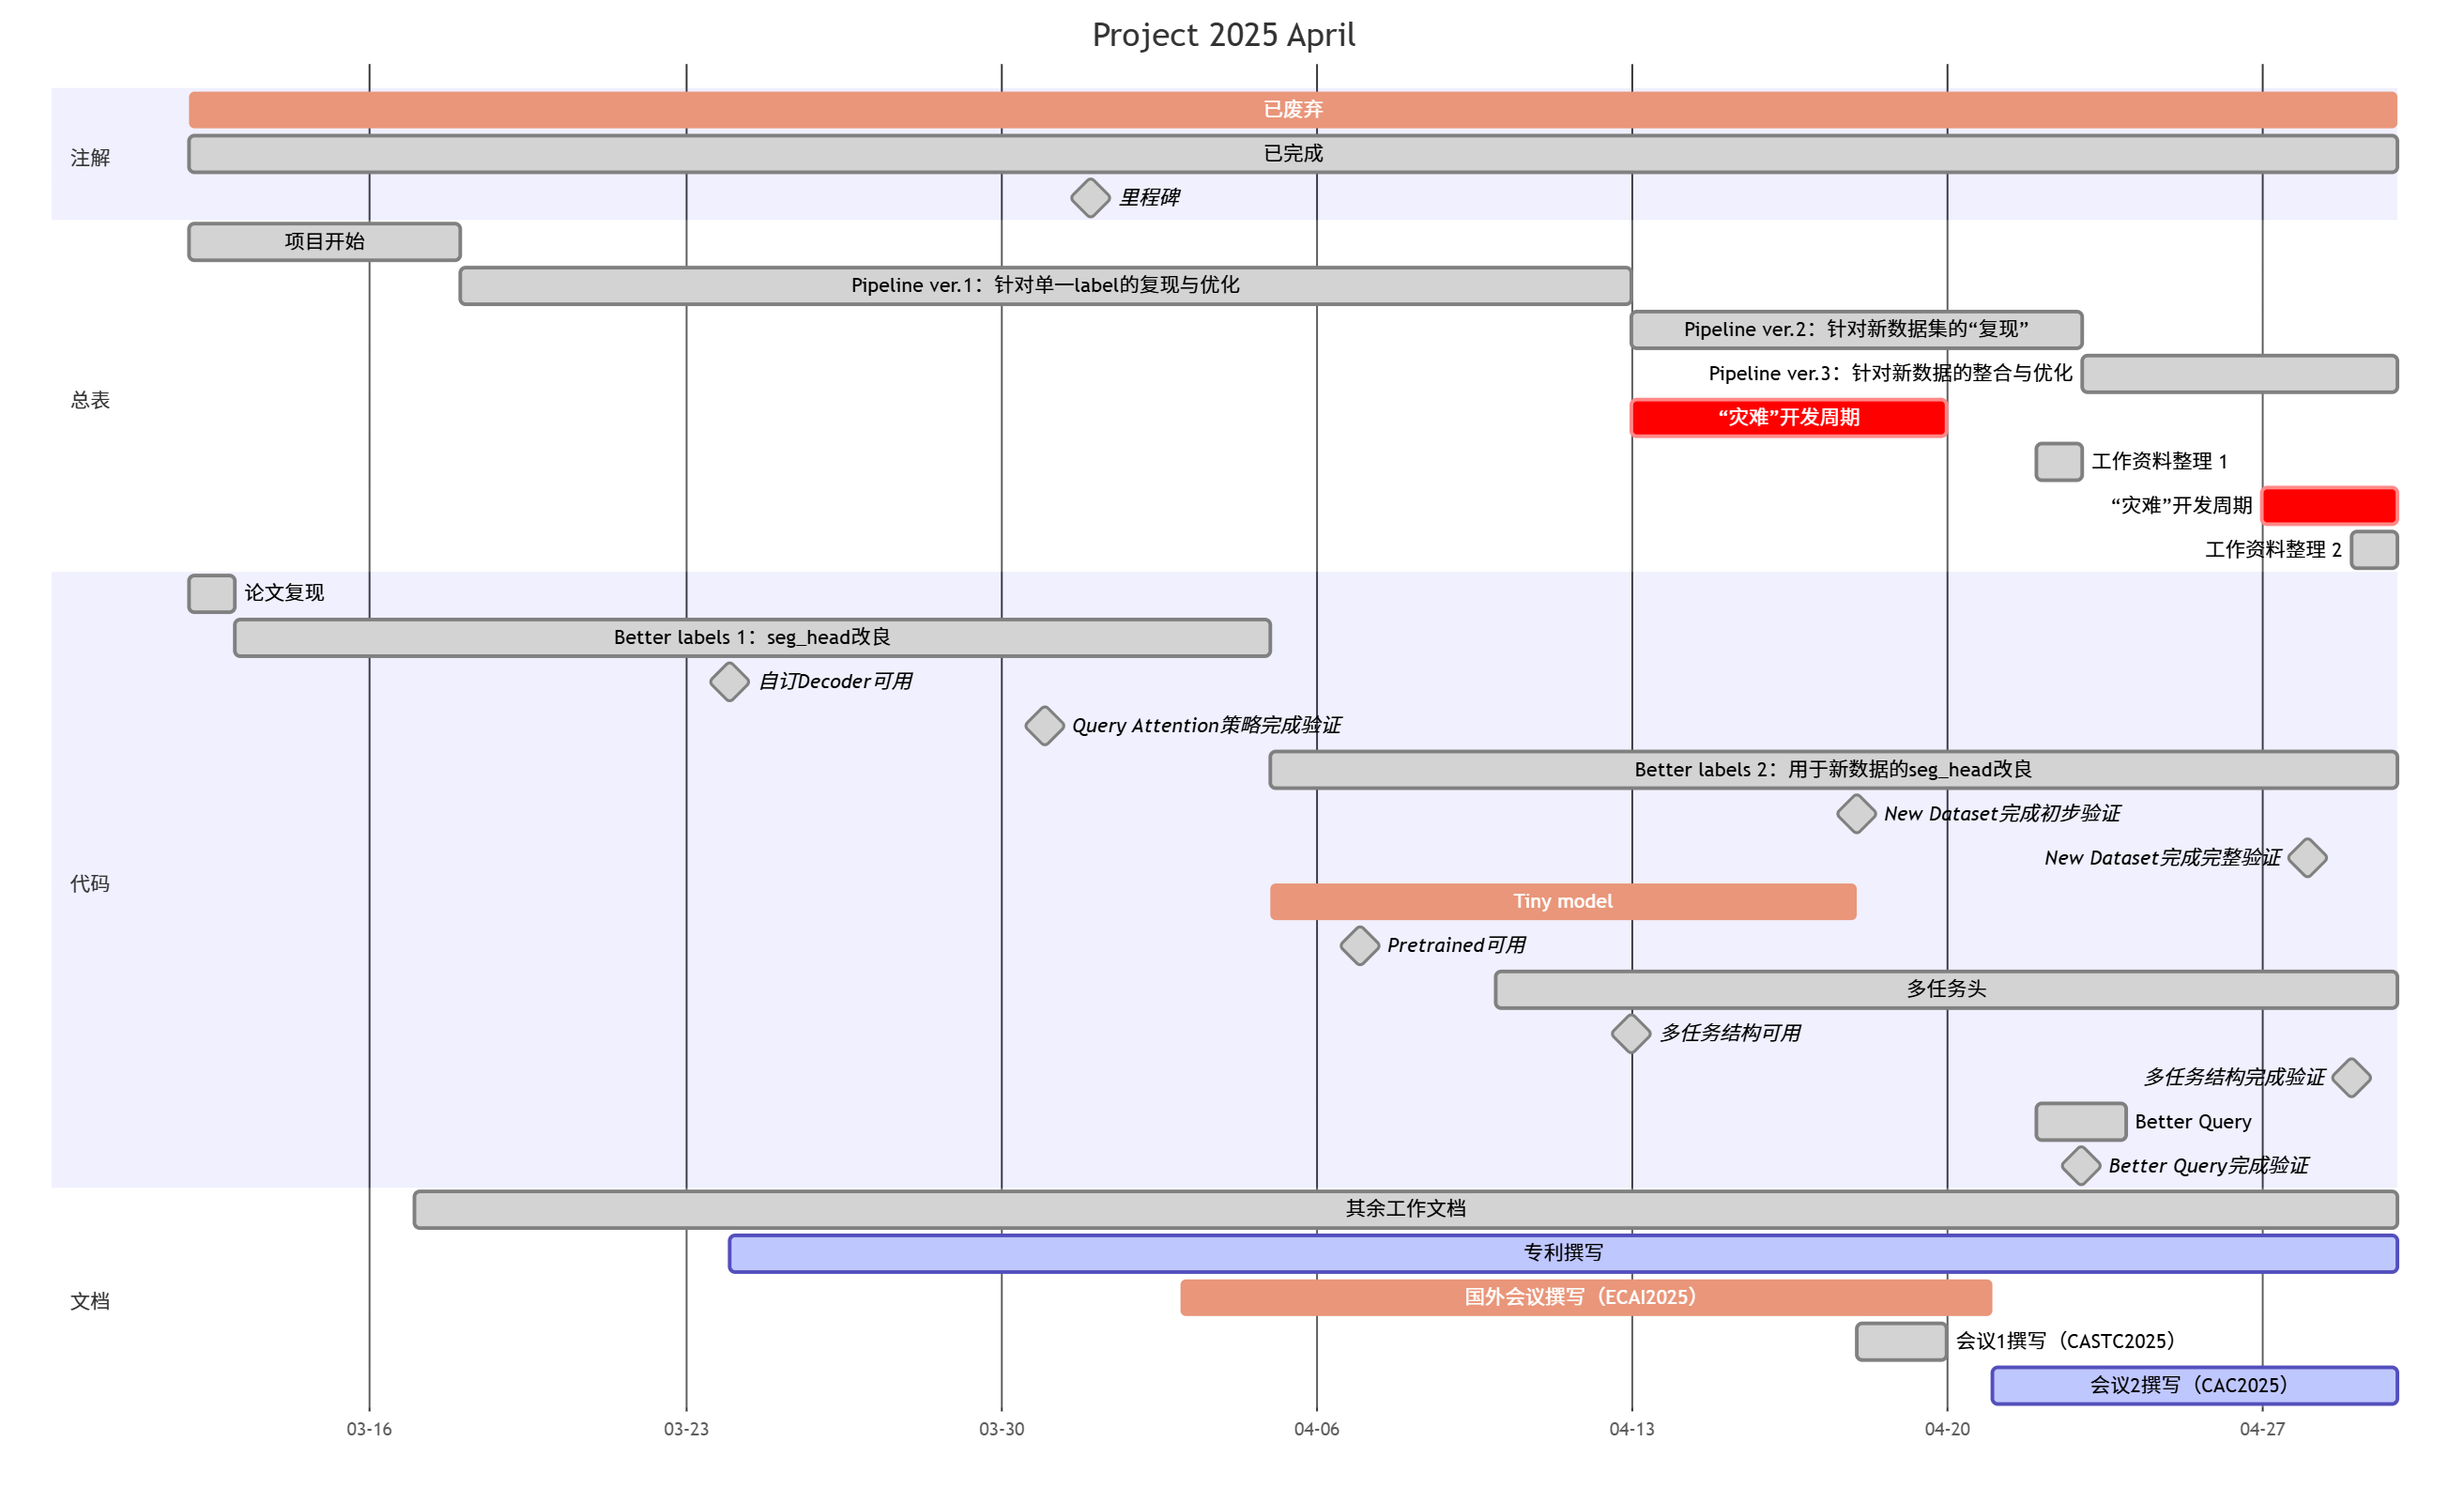
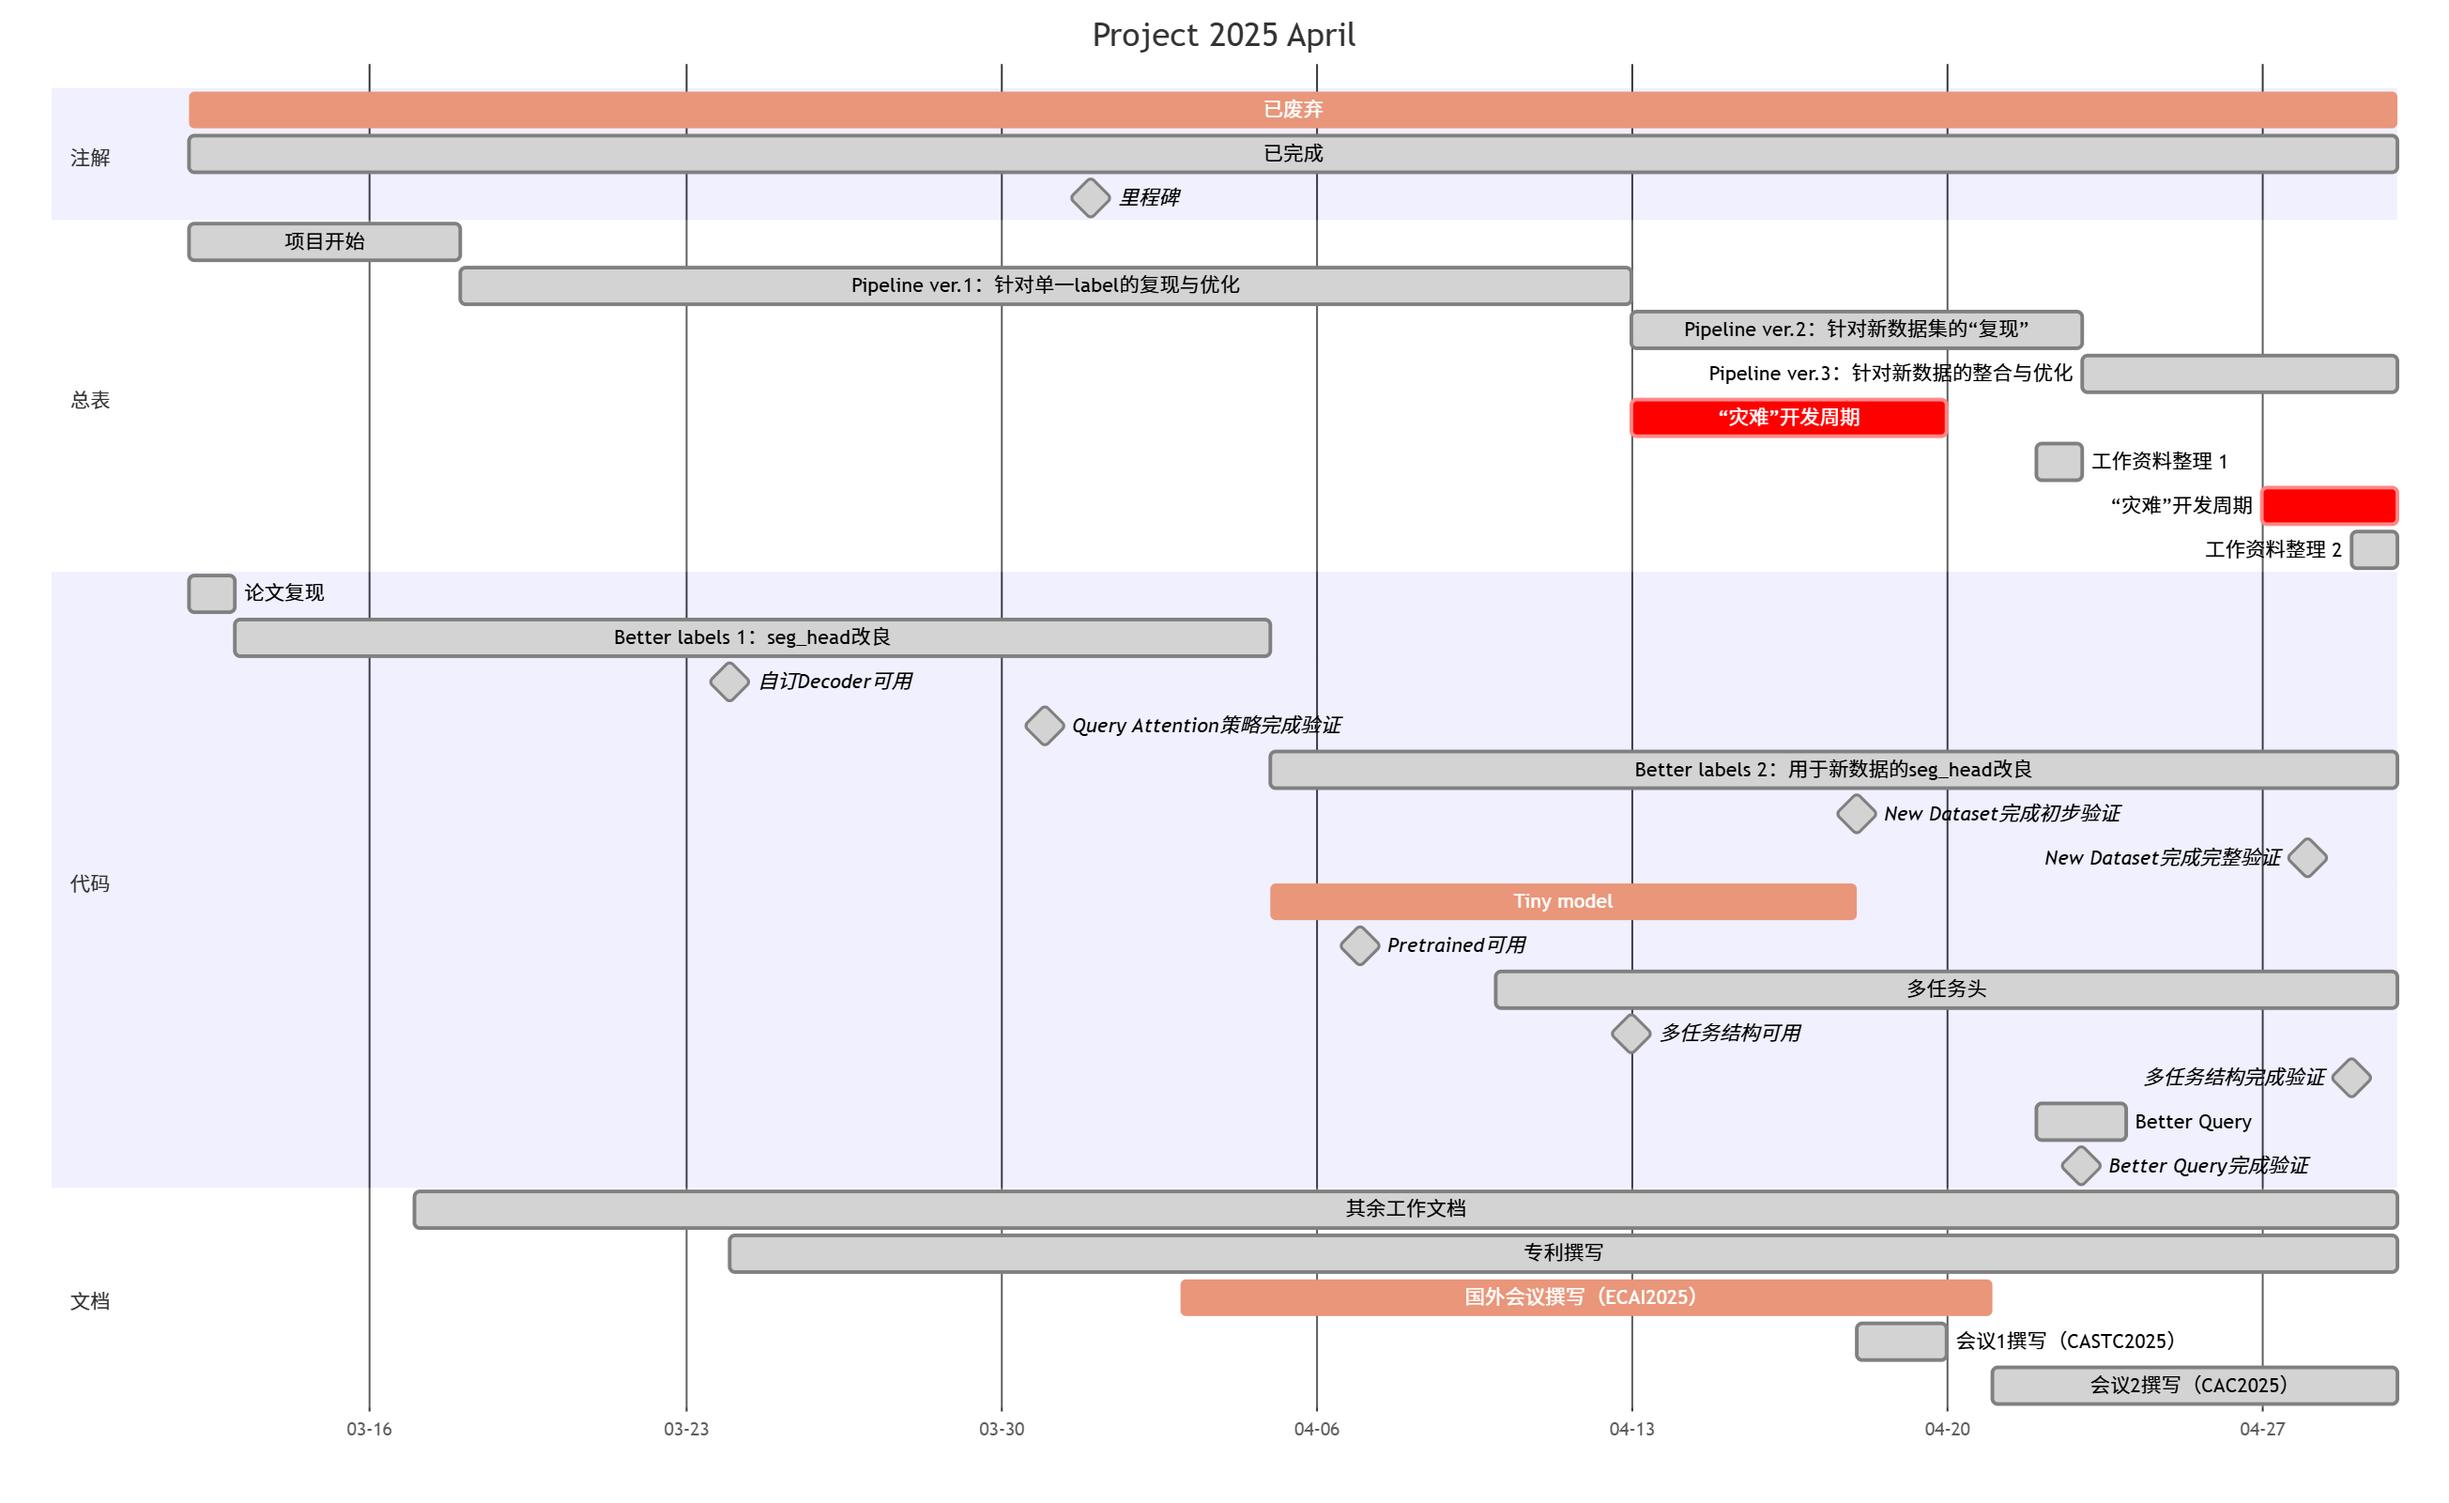
add

Changed region(s): [[0.2794, 0.812, 0.9935, 0.8745], [0.8072, 0.9057, 0.9935, 0.9369]]

diff --git a/assets/others/mermaid-2025-04.md b/assets/others/mermaid-2025-04.md
@@ -60,7 +60,7 @@ gantt
     
     section 文档
         其余工作文档: done, dm1, 2025-03-17, 2025-04-30
-        专利撰写: active, d1, 2025-03-24, 2025-04-30
+        专利撰写: done, d1, 2025-03-24, 2025-04-30
         国外会议撰写（ECAI2025）: crit, depre2, 2025-04-03, 2025-04-21
         会议1撰写（CASTC2025）: done, d2, 2025-04-18, 2025-04-20
-        会议2撰写（CAC2025）: active, d3, after depre2, 2025-04-30
+        会议2撰写（CAC2025）: done, d3, after depre2, 2025-04-30

diff --git a/_posts/2025-05-01-月度灵感2025年5月刊.md b/_posts/2025-05-01-月度灵感2025年5月刊.md
@@ -1,0 +1,27 @@
+---
+title: 月度灵感2025年5月刊
+date: 2025-05-01 12:00:00 +0800
+categories: [月度灵感, "2025"]
+tags: [月度灵感]
+description: 月度灵感2025年5月刊
+---
+
+5月病。
+
+## 片子 🎞
+
+## 音乐 🎼
+
+## 灵感 & 想法 💡
+
+
+## 插画 & 排版 🎨
+
+
+## 游戏 🎮
+
+
+## 其他推荐
+
+| 标题 | 作者 | 类型 | 链接 | 推荐日期 | 备注 |
+| ---- | ---- | ---- | ---- | -------- | ---- |

diff --git a/_posts/2025-04-01-月度灵感2025年4月刊.md b/_posts/2025-04-01-月度灵感2025年4月刊.md
@@ -74,8 +74,8 @@ description: 月度灵感2025年4月刊
 
 ## 插画 & 排版 🎨
 
-![](assets\img\collections\ins\0__11Xx.jpg)
-_Instagram@0\_\_11Xx_
+![](assets\img\collections\twitter\0__11Xx.jpg)
+_Twitter@0\_\_11Xx_
 
 ## 游戏 🎮
 
